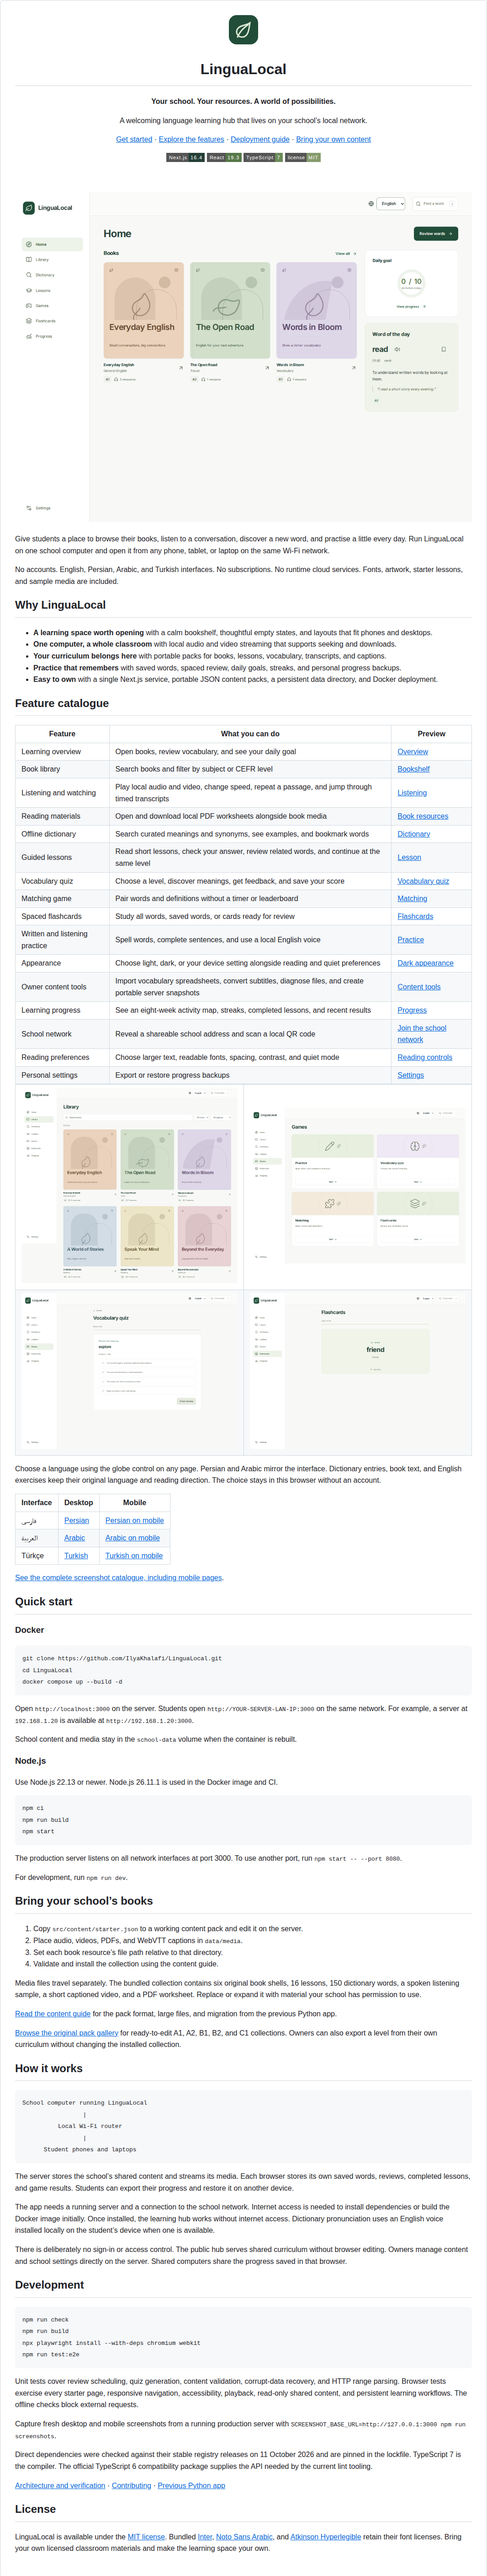
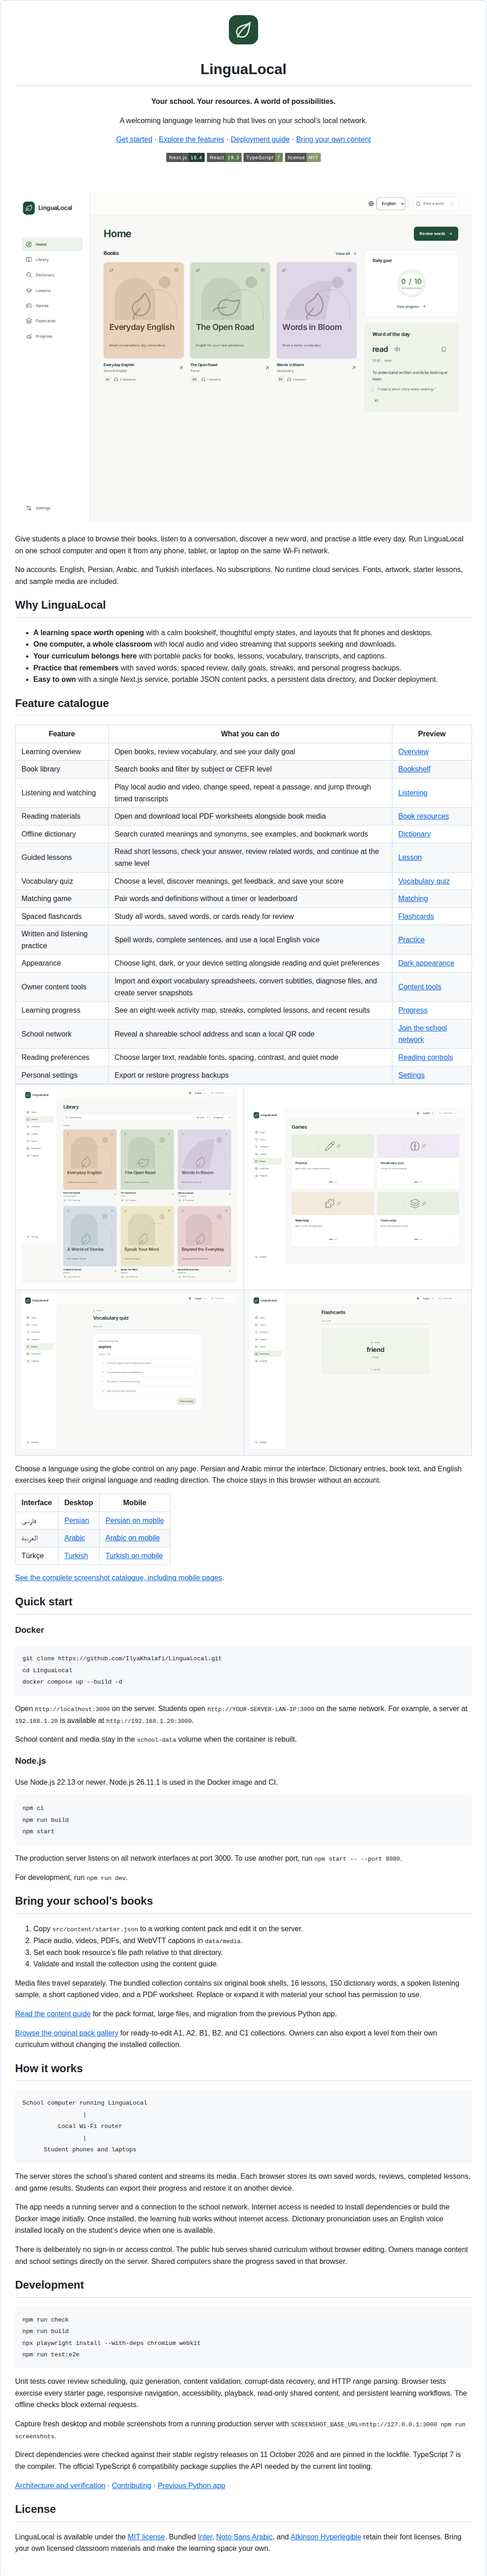
Add reversible vocabulary spreadsheet exports

Changed region(s): [[0.2167, 0.2798, 0.7739, 0.4352], [0.8049, 0.2798, 0.8977, 0.4352]]

diff --git a/tests/unit/vocabulary-csv.test.ts b/tests/unit/vocabulary-csv.test.ts
@@ -3,6 +3,8 @@ import assert from "node:assert/strict";
 import seed from "../../src/content/starter.json";
 import { packSchema } from "../../src/lib/schema";
 import { importVocabulary } from "../../src/lib/vocabulary-csv";
+import { exportVocabulary } from "../../src/lib/vocabulary-export";
+import { parse } from "csv-parse/sync";
 
 const header = "id,word,part,definition,example,level,phonetic,synonyms";
 const row =
@@ -70,4 +72,97 @@ test("semicolon spreadsheets and error line numbers work", () => {
     },
   );
   assert.throws(() => importVocabulary(header + "\ncurious,curious", base));
+});
+
+test("exported vocabulary round trips Unicode, punctuation and spreadsheet-safe cells", () => {
+  const words = packSchema
+    .parse(seed)
+    .words.slice(0, 4)
+    .map((word, index) => ({
+      ...word,
+      word: ["=expression", "+addition", "-negative", "@mention"][index],
+      definition: [
+        'Say "hello", then listen.',
+        "مرحبا فارسی Türkçe",
+        "'quoted",
+        "=SUM(A1:A2)",
+      ][index],
+      example: [
+        'Two lines\nwith a comma, and quotes "yes".',
+        "-a dialogue line",
+        "@someone",
+        "'an apostrophe",
+      ][index],
+      phonetic: ["\t=expression", "  +phonetic", "'literal", "\n@voice"][index],
+      synonyms: ["left|right", 'a "quote"', "مرحبا", "=formula"],
+    }));
+  const csv = exportVocabulary(words);
+  assert.ok(csv.startsWith("\uFEFFid,word,"));
+  const records = parse(csv, { bom: true, columns: true }) as Record<
+    string,
+    string
+  >[];
+  for (const record of records) {
+    for (const value of Object.values(record))
+      assert.ok(!/^(?:[\t\r\n]|\s*[=+\-@])/u.test(value));
+  }
+  assert.deepEqual(importVocabulary(csv).words, words);
+  assert.deepEqual(
+    importVocabulary(exportVocabulary(packSchema.parse(seed).words)),
+    {
+      version: 1,
+      words: packSchema.parse(seed).words,
+      books: [],
+      lessons: [],
+    },
+  );
+});
+
+test("declared CSV encodings reject unknown versions and malformed synonyms with line numbers", () => {
+  const csv = exportVocabulary(packSchema.parse(seed).words.slice(0, 4));
+  assert.throws(
+    () => importVocabulary(csv.replaceAll("lingualocal-v1", "lingualocal-v9")),
+    /Unknown vocabulary encoding/,
+  );
+  assert.throws(
+    () => importVocabulary(csv.replace('"lingualocal-v1"', '""')),
+    /encoding must be consistent/,
+  );
+  assert.deepEqual(
+    importVocabulary(csv.replace('"[""inquisitive"",""interested""]"', '""'))
+      .words[0].synonyms,
+    [],
+  );
+  assert.throws(
+    () =>
+      importVocabulary(
+        csv.replace('"[""inquisitive"",""interested""]"', '"not JSON"'),
+      ),
+    (error: unknown) => {
+      const issues = (error as { issues: { path: (string | number)[] }[] })
+        .issues;
+      assert.deepEqual(issues[0].path, ["CSV line 2", "synonyms"]);
+      return true;
+    },
+  );
+  assert.throws(() => exportVocabulary([]), /No vocabulary matches/);
+  const word = {
+    ...packSchema.parse(seed).words[0],
+    definition: '"'.repeat(2000),
+    example: '"'.repeat(2000),
+  };
+  assert.throws(
+    () => exportVocabulary(Array.from({ length: 1000 }, () => word)),
+    /size limit/,
+  );
+});
+
+test("plain spreadsheet apostrophes and pipes retain their existing meaning", () => {
+  const csv =
+    header +
+    "\n" +
+    row.replace('"She asked, ""Why?"""', "'A literal apostrophe");
+  const result = importVocabulary(csv, packSchema.parse(seed));
+  assert.equal(result.words[0].example, "'A literal apostrophe");
+  assert.deepEqual(result.words[0].synonyms, ["interested", "inquisitive"]);
 });

diff --git a/src/lib/vocabulary-csv.ts b/src/lib/vocabulary-csv.ts
@@ -2,9 +2,10 @@ import { parse } from "csv-parse/sync";
 import { DOCUMENT_LIMIT } from "./document-limits";
 import { z } from "zod";
 import { packSchema, wordSchema, type ContentPack, type Word } from "./schema";
+import { vocabularyEncoding } from "./vocabulary-export";
 
 const required = ["id", "word", "part", "definition", "example", "level"];
-const allowed = new Set([...required, "phonetic", "synonyms"]);
+const allowed = new Set([...required, "phonetic", "synonyms", "encoding"]);
 function delimiter(csv: string): string {
   const header = csv
     .replace(/^\uFEFF/, "")
@@ -56,17 +57,64 @@ export function importVocabulary(csv: string, base?: ContentPack): ContentPack {
   if (!records.length) throw new Error("CSV contains no vocabulary records.");
   if (records.length > 20000)
     throw new Error("CSV contains too many vocabulary records.");
+  const encoding = records.find(({ record }) => record.encoding)?.record
+    .encoding;
+  if (encoding) {
+    const inconsistent = records.find(
+      ({ record }) => record.encoding !== encoding,
+    );
+    if (inconsistent)
+      throw new z.ZodError([
+        {
+          code: "custom",
+          path: [`CSV line ${inconsistent.info.lines}`, "encoding"],
+          message: "CSV encoding must be consistent on every record",
+        },
+      ]);
+  }
   const words: Word[] = [];
   const issues: z.core.$ZodIssue[] = [];
   const ids = new Set<string>();
   for (const { record, info } of records) {
+    if (record.encoding && record.encoding !== vocabularyEncoding) {
+      issues.push({
+        code: "custom",
+        path: [`CSV line ${info.lines}`, "encoding"],
+        message: "Unknown vocabulary encoding",
+      });
+      if (issues.length > 20) break;
+      continue;
+    }
+    const encoded = record.encoding === vocabularyEncoding;
+    const restored = encoded
+      ? Object.fromEntries(
+          Object.entries(record).map(([key, value]) => [
+            key,
+            value.startsWith("'") ? value.slice(1) : value,
+          ]),
+        )
+      : record;
+    let synonyms: unknown;
+    try {
+      synonyms = encoded
+        ? JSON.parse(restored.synonyms?.trim() || "[]")
+        : (record.synonyms ?? "")
+            .split("|")
+            .map((word) => word.trim())
+            .filter(Boolean);
+    } catch {
+      issues.push({
+        code: "custom",
+        path: [`CSV line ${info.lines}`, "synonyms"],
+        message: "Encoded synonyms must be a JSON array",
+      });
+      if (issues.length > 20) break;
+      continue;
+    }
     const result = wordSchema.safeParse({
-      ...record,
-      phonetic: record.phonetic ?? "",
-      synonyms: (record.synonyms ?? "")
-        .split("|")
-        .map((word) => word.trim())
-        .filter(Boolean),
+      ...restored,
+      phonetic: restored.phonetic ?? "",
+      synonyms,
     });
     if (!result.success)
       issues.push(

diff --git a/src/lib/vocabulary-export.ts b/src/lib/vocabulary-export.ts
@@ -1,0 +1,45 @@
+import { DOCUMENT_LIMIT } from "./document-limits";
+import type { Word } from "./schema";
+
+export const vocabularyEncoding = "lingualocal-v1";
+
+// The declared encoding lets import restore spreadsheet-safe cells exactly.
+function cell(value: string): string {
+  const safe = /^(?:'|[\t\r\n]|\s*[=+\-@])/u.test(value) ? "'" + value : value;
+  return '"' + safe.replaceAll('"', '""') + '"';
+}
+
+export function exportVocabulary(words: readonly Word[]): string {
+  if (!words.length) throw new Error("No vocabulary matches this selection.");
+  const columns = [
+    "id",
+    "word",
+    "part",
+    "definition",
+    "example",
+    "level",
+    "phonetic",
+    "synonyms",
+    "encoding",
+  ];
+  const rows = words.map((word) =>
+    [
+      word.id,
+      word.word,
+      word.part,
+      word.definition,
+      word.example,
+      word.level,
+      word.phonetic,
+      JSON.stringify(word.synonyms),
+      vocabularyEncoding,
+    ]
+      .map(cell)
+      .join(","),
+  );
+  const csv =
+    "\uFEFF" + columns.join(",") + "\r\n" + rows.join("\r\n") + "\r\n";
+  if (Buffer.byteLength(csv) > DOCUMENT_LIMIT)
+    throw new Error("The exported CSV exceeds the size limit.");
+  return csv;
+}

diff --git a/scripts/export-vocabulary.ts b/scripts/export-vocabulary.ts
@@ -1,0 +1,22 @@
+import "./load-environment.mjs";
+import { z } from "zod";
+import { levels, packSchema } from "../src/lib/schema";
+import { readValidatedJson } from "../src/lib/json-file";
+import { writeFileAtomically } from "../src/lib/atomic-file";
+import { exportVocabulary } from "../src/lib/vocabulary-export";
+import { runCommand } from "../src/lib/cli";
+
+runCommand(async () => {
+  const [source, output, selectedLevel] = process.argv.slice(2);
+  if (!source || !output || process.argv.length > 5)
+    throw new Error("Usage is export-vocabulary INPUT.json NEW.csv [LEVEL]");
+  const level =
+    selectedLevel === undefined
+      ? undefined
+      : z.enum(levels).parse(selectedLevel);
+  const content = await readValidatedJson(source, packSchema);
+  const words = content.words.filter((word) => !level || word.level === level);
+  const csv = exportVocabulary(words);
+  await writeFileAtomically(output, csv, { overwrite: false });
+  console.log(`Exported ${words.length} words to ${output}.`);
+});

diff --git a/README.md b/README.md
@@ -33,24 +33,24 @@ No accounts. English, Persian, Arabic, and Turkish interfaces. No subscriptions.
 
 ## Feature catalogue
 
-| Feature                        | What you can do                                                                                         | Preview                                                      |
-| ------------------------------ | ------------------------------------------------------------------------------------------------------- | ------------------------------------------------------------ |
-| Learning overview              | Open books, review vocabulary, and see your daily goal                                                  | [Overview](docs/screenshots/overview.png)                    |
-| Book library                   | Search books and filter by subject or CEFR level                                                        | [Bookshelf](docs/screenshots/library.png)                    |
-| Listening and watching         | Play local audio and video, change speed, repeat a passage, and jump through timed transcripts          | [Listening](docs/screenshots/listening.png)                  |
-| Reading materials              | Open and download local PDF worksheets alongside book media                                             | [Book resources](docs/screenshots/book-everyday-english.png) |
-| Offline dictionary             | Search curated meanings and synonyms, see examples, and bookmark words                                  | [Dictionary](docs/screenshots/dictionary.png)                |
-| Guided lessons                 | Read short lessons, check your answer, review related words, and continue at the same level             | [Lesson](docs/screenshots/lesson-present-simple.png)         |
-| Vocabulary quiz                | Choose a level, discover meanings, get feedback, and save your score                                    | [Vocabulary quiz](docs/screenshots/quiz-playing.png)         |
-| Matching game                  | Pair words and definitions without a timer or leaderboard                                               | [Matching](docs/screenshots/matching-playing.png)            |
-| Spaced flashcards              | Study all words, saved words, or cards ready for review                                                 | [Flashcards](docs/screenshots/flashcards-playing.png)        |
-| Written and listening practice | Spell words, complete sentences, and use a local English voice                                          | [Practice](docs/screenshots/practice-playing.png)            |
-| Appearance                     | Choose light, dark, or your device setting alongside reading and quiet preferences                      | [Dark appearance](docs/screenshots/dark-overview.png)        |
-| Owner content tools            | Import vocabulary spreadsheets, convert subtitles, diagnose files, and create portable server snapshots | [Content tools](docs/CONTENT.md)                             |
-| Learning progress              | See an eight-week activity map, streaks, completed lessons, and recent results                          | [Progress](docs/screenshots/progress.png)                    |
-| School network                 | Reveal a shareable school address and scan a local QR code                                              | [Join the school network](docs/screenshots/join-network.png) |
-| Reading preferences            | Choose larger text, readable fonts, spacing, contrast, and quiet mode                                   | [Reading controls](docs/screenshots/reading-settings.png)    |
-| Personal settings              | Export or restore progress backups                                                                      | [Settings](docs/screenshots/settings.png)                    |
+| Feature                        | What you can do                                                                                           | Preview                                                      |
+| ------------------------------ | --------------------------------------------------------------------------------------------------------- | ------------------------------------------------------------ |
+| Learning overview              | Open books, review vocabulary, and see your daily goal                                                    | [Overview](docs/screenshots/overview.png)                    |
+| Book library                   | Search books and filter by subject or CEFR level                                                          | [Bookshelf](docs/screenshots/library.png)                    |
+| Listening and watching         | Play local audio and video, change speed, repeat a passage, and jump through timed transcripts            | [Listening](docs/screenshots/listening.png)                  |
+| Reading materials              | Open and download local PDF worksheets alongside book media                                               | [Book resources](docs/screenshots/book-everyday-english.png) |
+| Offline dictionary             | Search curated meanings and synonyms, see examples, and bookmark words                                    | [Dictionary](docs/screenshots/dictionary.png)                |
+| Guided lessons                 | Read short lessons, check your answer, review related words, and continue at the same level               | [Lesson](docs/screenshots/lesson-present-simple.png)         |
+| Vocabulary quiz                | Choose a level, discover meanings, get feedback, and save your score                                      | [Vocabulary quiz](docs/screenshots/quiz-playing.png)         |
+| Matching game                  | Pair words and definitions without a timer or leaderboard                                                 | [Matching](docs/screenshots/matching-playing.png)            |
+| Spaced flashcards              | Study all words, saved words, or cards ready for review                                                   | [Flashcards](docs/screenshots/flashcards-playing.png)        |
+| Written and listening practice | Spell words, complete sentences, and use a local English voice                                            | [Practice](docs/screenshots/practice-playing.png)            |
+| Appearance                     | Choose light, dark, or your device setting alongside reading and quiet preferences                        | [Dark appearance](docs/screenshots/dark-overview.png)        |
+| Owner content tools            | Import and export vocabulary spreadsheets, convert subtitles, diagnose files, and create server snapshots | [Content tools](docs/CONTENT.md)                             |
+| Learning progress              | See an eight-week activity map, streaks, completed lessons, and recent results                            | [Progress](docs/screenshots/progress.png)                    |
+| School network                 | Reveal a shareable school address and scan a local QR code                                                | [Join the school network](docs/screenshots/join-network.png) |
+| Reading preferences            | Choose larger text, readable fonts, spacing, contrast, and quiet mode                                     | [Reading controls](docs/screenshots/reading-settings.png)    |
+| Personal settings              | Export or restore progress backups                                                                        | [Settings](docs/screenshots/settings.png)                    |
 
 <table>
   <tr>

diff --git a/docs/CONTENT.md b/docs/CONTENT.md
@@ -52,6 +52,16 @@ Run `npm run vocabulary:import -- words.csv new-collection.json collection.json`
 
 In Docker, use `node scripts/import-vocabulary.mjs /tmp/words.csv /tmp/new-collection.json /tmp/collection.json`. Validate the output before installing it. The input and resulting pack each have a 2 MB limit.
 
+### Exporting vocabulary
+
+Run `npm run vocabulary:export -- collection.json new-words.csv` to export every dictionary entry. Add a level such as `B1` to export only that level. The UTF-8 file opens in spreadsheets and preserves non-Latin text, quotes, and multiline examples. The source stays intact and the destination must be a new file.
+
+Exports include an `encoding` column identifying the reversible LinguaLocal format. Keep this column when reimporting. Synonyms are stored as JSON arrays so literal `|` characters survive. Formula-like cells and leading apostrophes receive a protective apostrophe that import removes. Existing plain CSV files continue to use pipe-separated synonyms.
+
+Import the CSV with the original collection as the base to retain books, lessons, and entries outside the exported level. A standalone vocabulary pack still needs at least four words. CSV exports have the same 2 MB size limit as imports.
+
+In Docker, use `node scripts/export-vocabulary.mjs /tmp/collection.json /tmp/new-words.csv B1`.
+
 ### Book resources
 
 ```json

diff --git a/docs/ROADMAP.md b/docs/ROADMAP.md
@@ -19,7 +19,7 @@ The next release expands student practice, classroom materials, and local deploy
 - [ ] Assignment links with local checklists and optional due dates
 - [ ] Printable vocabulary and lesson worksheets with separate answer keys
 - [ ] Self-reported progress summaries and classroom roll-ups
-- [ ] Vocabulary spreadsheet import and deck export
+- [x] Vocabulary spreadsheet import and deck export
 - [x] Subtitle conversion and timing diagnostics
 - [x] Server content snapshots and restore tools
 
